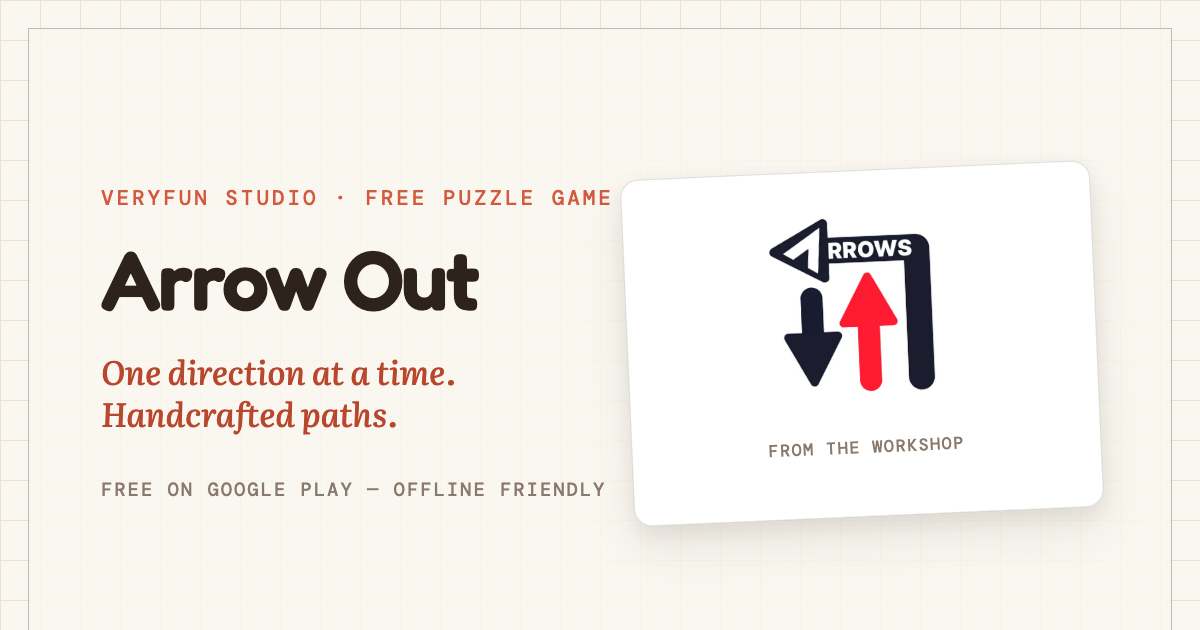
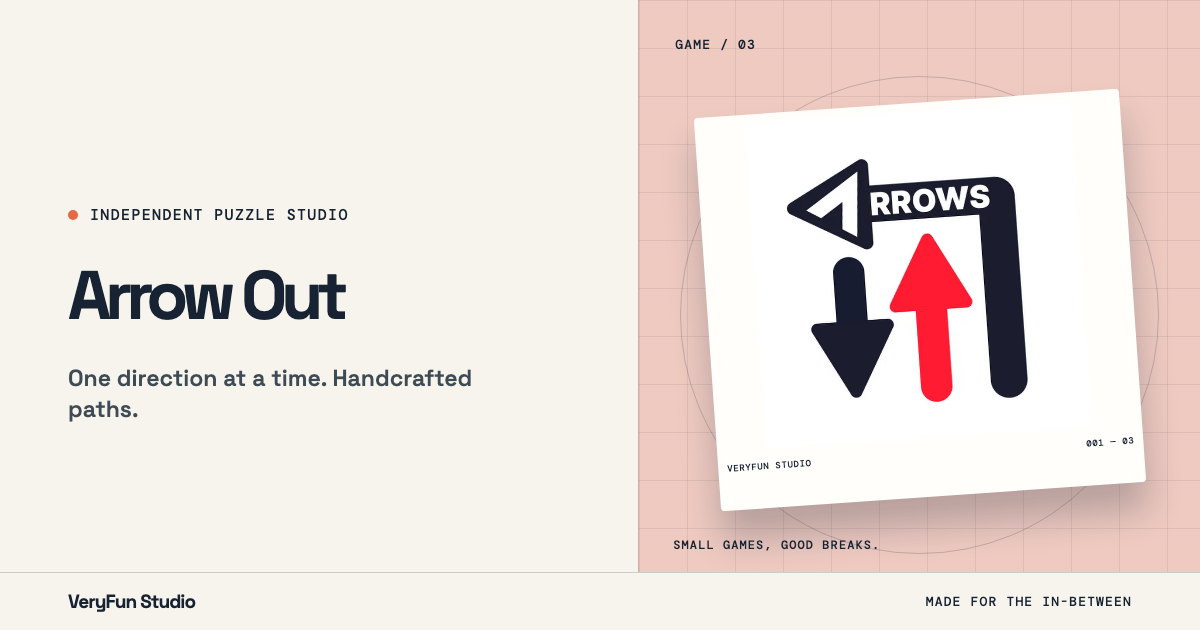
feat(social): align Open Graph cards with Play Index

diff --git a/scripts/generate-og-images.ts b/scripts/generate-og-images.ts
@@ -1,153 +1,141 @@
-// Branded per-game Open Graph cards (1200x630) rendered with the local
-// Chrome headless CLI: an inline workshop-styled template embedding the key
-// art via file://, screenshotted into public/og/<slug>.png. Zero extra
-// dependencies. Run before `pnpm build` so the cards ship with the site.
-// Usage: pnpm og
+// Generate the 1200×630 social cards from the same visual language as the site.
+// Run `pnpm og` before building when the catalog or the art direction changes.
 import { execFile } from "node:child_process";
 import { existsSync, mkdirSync, rmSync, writeFileSync } from "node:fs";
 import { tmpdir } from "node:os";
 import { join } from "node:path";
 import { promisify } from "node:util";
-import { GAMES } from "../src/data/games";
+import { GAMES, getNewestGame } from "../src/data/games";
 
 const execFileAsync = promisify(execFile);
-
 const publicDir = new URL("../public", import.meta.url).pathname;
 const outDir = join(publicDir, "og");
-
-const CHROME_CANDIDATES = [
+const chrome = [
   process.env.CHROME_PATH,
   "/Applications/Google Chrome.app/Contents/MacOS/Google Chrome",
   "/Applications/Chromium.app/Contents/MacOS/Chromium",
   "/usr/bin/google-chrome",
-].filter(Boolean);
+]
+  .filter((path): path is string => Boolean(path))
+  .find(existsSync);
 
-const chrome = CHROME_CANDIDATES.find((candidate) => existsSync(candidate));
-if (!chrome) {
-  console.error("Chrome not found. Set CHROME_PATH to a Chrome/Chromium binary.");
-  process.exit(1);
-}
+if (!chrome) throw new Error("Chrome not found. Set CHROME_PATH to a Chrome/Chromium binary.");
 mkdirSync(outDir, { recursive: true });
 
-const template = (title: string, hook: string, imageFileUrl: string) => `<!doctype html>
-<html>
-<head>
-<meta charset="utf-8">
-<link rel="stylesheet" href="https://fonts.googleapis.com/css2?family=DM+Mono:wght@500&family=Fredoka:wght@600&family=Literata:ital,opsz,wght@1,7..72,500&display=swap">
-<style>
-  * { box-sizing: border-box; margin: 0; padding: 0; }
-  body {
-    width: 1200px;
-    height: 630px;
-    background-color: #faf6f0;
-    background-image:
-      linear-gradient(#ece1d0 1px, transparent 1px),
-      linear-gradient(90deg, #ece1d0 1px, transparent 1px);
-    background-size: 40px 40px;
-    color: #2e231c;
-    font-family: "Fredoka", sans-serif;
-  }
-  .card {
-    display: grid;
-    grid-template-columns: 1.05fr 0.95fr;
-    align-items: center;
-    height: 100%;
-    border: 1.5px solid rgba(46, 35, 28, 0.28);
-    margin: 28px;
-    padding: 0 72px;
-    background: rgba(250, 246, 240, 0.82);
-  }
-  .eyebrow {
-    color: #d35a3d;
-    font-family: "DM Mono", monospace;
-    font-size: 21px;
-    font-weight: 500;
-    letter-spacing: 0.14em;
-    text-transform: uppercase;
-  }
-  h1 {
-    margin-top: 26px;
-    max-width: 12ch;
-    font-size: 84px;
-    font-weight: 600;
-    letter-spacing: -0.03em;
-    line-height: 0.98;
-  }
-  .hook {
-    margin-top: 30px;
-    max-width: 24ch;
-    color: #b8472d;
-    font-family: "Literata", serif;
-    font-size: 33px;
-    font-style: italic;
-    line-height: 1.25;
-  }
-  .foot {
-    margin-top: 44px;
-    color: #8a7a6d;
-    font-family: "DM Mono", monospace;
-    font-size: 19px;
-    letter-spacing: 0.1em;
-    text-transform: uppercase;
-  }
-  figure {
-    justify-self: center;
-    width: 470px;
-    margin: 0;
-    padding: 16px 16px 58px;
-    border: 1px solid rgba(46, 35, 28, 0.14);
-    border-radius: 18px;
-    background: #ffffff;
-    box-shadow: 0 8px 20px rgba(46, 35, 28, 0.08), 0 24px 48px rgba(46, 35, 28, 0.08);
-    transform: rotate(-2.5deg);
-  }
-  figure img {
-    width: 100%;
-    aspect-ratio: 1200 / 630;
-    border-radius: 10px;
-    object-fit: cover;
-  }
-  figure figcaption {
-    padding-top: 16px;
-    color: #8a7a6d;
-    font-family: "DM Mono", monospace;
-    font-size: 17px;
-    letter-spacing: 0.08em;
-    text-align: center;
-    text-transform: uppercase;
-  }
-</style>
-</head>
-<body>
-  <div class="card">
-    <div>
-      <p class="eyebrow">VeryFun Studio · Free puzzle game</p>
-      <h1>${title}</h1>
-      <p class="hook">${hook}</p>
-      <p class="foot">Free on Google Play — Offline friendly</p>
-    </div>
-    <figure>
-      <img src="${imageFileUrl}" alt="">
-      <figcaption>From the workshop</figcaption>
-    </figure>
-  </div>
-</body>
-</html>`;
+const escapeHtml = (value: string) =>
+  value.replace(
+    /[&<>"']/g,
+    (character) =>
+      ({
+        "&": "&amp;",
+        "<": "&lt;",
+        ">": "&gt;",
+        '"': "&quot;",
+        "'": "&#39;",
+      })[character] ?? character,
+  );
 
-for (const game of GAMES) {
-  const imageFileUrl = `file://${join(publicDir, game.image)}`;
-  const harness = join(tmpdir(), `vfs-og-${game.slug}.html`);
-  const out = join(outDir, `${game.slug}.png`);
-  writeFileSync(harness, template(game.title, game.hook, imageFileUrl));
-  await execFileAsync(chrome, [
-    "--headless=new",
-    "--disable-gpu",
-    "--hide-scrollbars",
-    "--virtual-time-budget=8000",
-    "--window-size=1200,630",
-    `--screenshot=${out}`,
-    `file://${harness}`,
-  ]);
-  rmSync(harness, { force: true });
-  console.log(`generated public/og/${game.slug}.png`);
+const styles = `
+  @import url('https://fonts.googleapis.com/css2?family=DM+Mono:wght@500&family=Instrument+Serif:ital@0;1&family=Space+Grotesk:wght@600;700&display=swap');
+  * { box-sizing: border-box; }
+  html, body { width: 1200px; height: 630px; margin: 0; overflow: hidden; }
+  body { background: #f6f4ed; color: #172333; font-family: 'Space Grotesk', Arial, sans-serif; }
+  .card { position: relative; display: grid; grid-template-columns: 1fr 0.88fr; width: 100%; height: 100%; overflow: hidden; }
+  .copy { display: flex; flex-direction: column; justify-content: center; padding: 70px 56px 70px 68px; }
+  .kicker, .bottom, .stage-label, .stage-foot { font-family: 'DM Mono', monospace; font-weight: 500; letter-spacing: 0.09em; text-transform: uppercase; }
+  .kicker { display: flex; align-items: center; gap: 12px; margin: 0 0 38px; font-size: 15px; }
+  .kicker::before { width: 10px; height: 10px; border-radius: 50%; background: #e76843; content: ''; }
+  h1 { max-width: 610px; margin: 0; font-size: 86px; font-weight: 700; letter-spacing: -0.085em; line-height: 0.91; }
+  h1 em { color: #e76843; font-family: 'Instrument Serif', Georgia, serif; font-weight: 400; letter-spacing: -0.05em; }
+  .card.game h1 { font-size: 68px; line-height: 0.96; }
+  .description { max-width: 450px; margin: 34px 0 0; color: #3e4b55; font-size: 23px; line-height: 1.35; }
+  .bottom { position: absolute; right: 0; bottom: 0; left: 0; display: flex; justify-content: space-between; align-items: center; height: 58px; padding: 0 68px; border-top: 1px solid rgba(23,35,51,.18); background: #f6f4ed; font-size: 13px; }
+  .bottom strong { font-family: 'Space Grotesk', Arial, sans-serif; font-size: 19px; letter-spacing: -0.05em; text-transform: none; }
+  .stage { position: relative; display: grid; place-items: center; overflow: hidden; border-left: 1px solid rgba(23,35,51,.16); background: var(--tone); }
+  .stage::before { position: absolute; inset: 0; background-image: linear-gradient(rgba(23,35,51,.08) 1px, transparent 1px),linear-gradient(90deg, rgba(23,35,51,.08) 1px, transparent 1px); background-size: 48px 48px; content: ''; }
+  .stage::after { position: absolute; width: 85%; aspect-ratio: 1; border: 1px solid rgba(23,35,51,.2); border-radius: 50%; content: ''; }
+  .stage-label { position: absolute; z-index: 2; top: 36px; left: 36px; font-size: 13px; }
+  figure { position: relative; z-index: 1; width: 76%; margin: -30px 0 0; padding: 9px 9px 36px; border-radius: 4px; background: #fffefa; box-shadow: 0 28px 35px rgba(23,35,51,.25); transform: rotate(-4deg); }
+  figure img { display: block; width: 100%; aspect-ratio: 1.25; object-fit: cover; }
+  figcaption { display: flex; justify-content: space-between; margin-top: 11px; font-family: 'DM Mono', monospace; font-size: 9px; letter-spacing: 0.07em; text-transform: uppercase; }
+  .stage-foot { position: absolute; z-index: 2; right: 34px; bottom: 77px; left: 34px; font-size: 12px; }
+`;
+
+const card = (options: {
+  title: string;
+  description: string;
+  imageFileUrl: string;
+  tone: string;
+  label: string;
+  number: string;
+  home?: boolean;
+}) => `<!doctype html>
+<html lang="en"><head><meta charset="utf-8"><style>${styles}</style></head><body>
+  <div class="card ${options.home ? "home" : "game"}" style="--tone:${options.tone}">
+    <div class="copy">
+      <p class="kicker">Independent puzzle studio</p>
+      <h1>${options.home ? "Make room<br>for <em>play.</em>" : escapeHtml(options.title)}</h1>
+      <p class="description">${escapeHtml(options.description)}</p>
+    </div>
+    <div class="stage">
+      <span class="stage-label">${escapeHtml(options.label)} / ${options.number}</span>
+      <figure><img src="${options.imageFileUrl}" alt=""><figcaption><span>VeryFun Studio</span><span>001 — ${options.number}</span></figcaption></figure>
+      <span class="stage-foot">Small games, good breaks.</span>
+    </div>
+    <div class="bottom"><strong>VeryFun Studio</strong><span>MADE FOR THE IN-BETWEEN</span></div>
+  </div>
+</body></html>`;
+
+async function capture(filename: string, html: string) {
+  const harness = join(tmpdir(), `vfs-og-${filename.replaceAll("/", "-")}-${process.pid}.html`);
+  const output = join(publicDir, filename);
+  try {
+    writeFileSync(harness, html);
+    await execFileAsync(chrome!, [
+      "--headless=new",
+      "--disable-gpu",
+      "--hide-scrollbars",
+      "--virtual-time-budget=8000",
+      "--force-prefers-reduced-motion=reduce",
+      "--window-size=1200,630",
+      `--screenshot=${output}`,
+      `file://${harness}`,
+    ]);
+    console.log(`generated public/${filename}`);
+  } finally {
+    rmSync(harness, { force: true });
+  }
+}
+
+const newest = getNewestGame();
+await capture(
+  "og-studio-relaunch.png",
+  card({
+    title: "Make room for play.",
+    description: "Small, satisfying puzzle games for the moments between everything else.",
+    imageFileUrl: `file://${join(publicDir, newest.image)}`,
+    tone: "#dce8d9",
+    label: "Play object",
+    number: "01",
+    home: true,
+  }),
+);
+
+const tones: Record<string, string> = {
+  "nova-mahjong": "#dce8d9",
+  "tile-journey": "#e6ebb6",
+  "arrow-out": "#eecac1",
+};
+for (const [index, game] of GAMES.entries()) {
+  await capture(
+    `og/${game.slug}.png`,
+    card({
+      title: game.title,
+      description: game.hook,
+      imageFileUrl: `file://${join(publicDir, game.image)}`,
+      tone: tones[game.slug] ?? "#dce8d9",
+      label: "Game",
+      number: String(index + 1).padStart(2, "0"),
+    }),
+  );
 }

diff --git a/src/components/seo/Seo.tsx b/src/components/seo/Seo.tsx
@@ -1,7 +1,7 @@
-import { BRAND, BRAND_ASSET_VERSION, SITE_URL } from "@/lib/constants";
+import { BRAND, SITE_URL } from "@/lib/constants";
 
 const SITE_NAME = BRAND.name;
-const DEFAULT_OG_IMAGE = `${SITE_URL}/og-modern-workshop.png?v=${BRAND_ASSET_VERSION}`;
+const DEFAULT_OG_IMAGE = `${SITE_URL}/og-studio-relaunch.png`;
 const DEFAULT_OG_IMAGE_WIDTH = 1200;
 const DEFAULT_OG_IMAGE_HEIGHT = 630;
 
